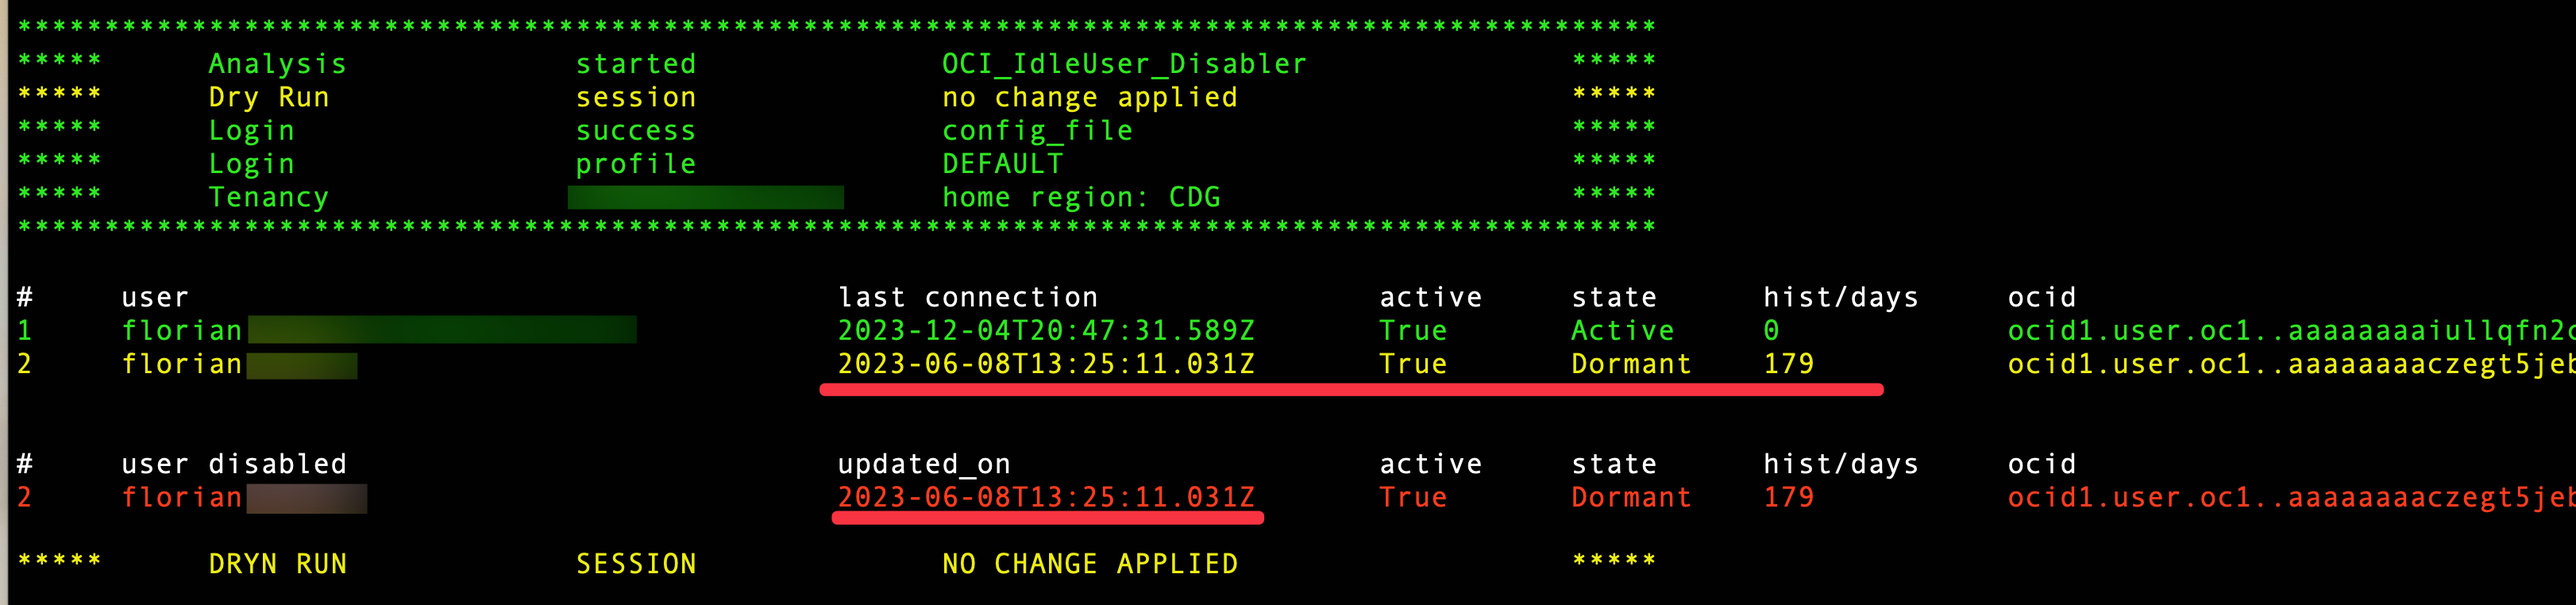
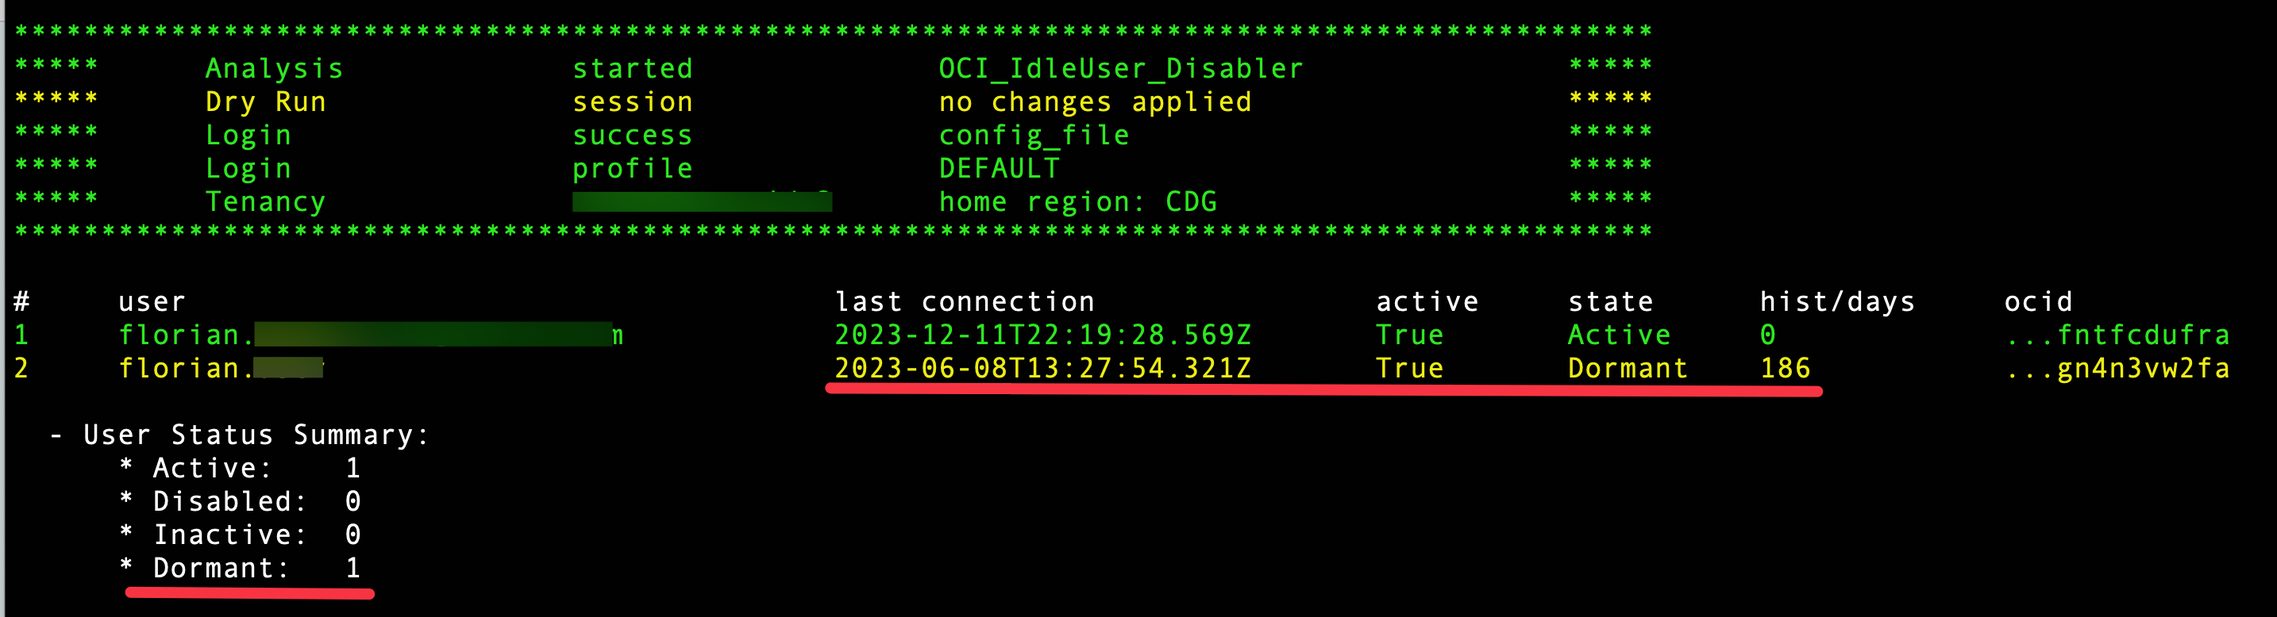
1.2.0
- doesn't display full user ocid by default (-details)
- fix last_successful_login_date
- manage errors when updating users
 -improve code logical
- add User Status Summary

diff --git a/OCI_IdleUser_Disabler.py b/OCI_IdleUser_Disabler.py
@@ -7,7 +7,7 @@
 #       disable users not connected since 60 days (default)
 #
 # Author: Florian Bonneville
-# Version: 1.0 - December 04th, 2023
+# Version: 1.2.0 - December 12th, 2023
 #
 # Disclaimer: 
 # This script is an independent tool developed by 
@@ -19,13 +19,12 @@
 import os
 import oci
 import argparse
-from datetime import datetime
+from datetime import datetime, timezone
 from modules.identity import create_signer
-from modules.utils import green, yellow, red, clear, print_info, print_output
+from modules.utils import green, yellow, red, clear, print_info, print_output, print_error
 
 script_path = os.path.abspath(__file__)
 script_name = (os.path.basename(script_path))[:-3]
-analysis_start = datetime.now()
 
 # - - - - - - - - - - - - - - - - - - - - - - - - - -
 # get command line arguments
@@ -48,6 +47,8 @@ def parse_arguments():
                         help='Number of days of inactivity')
     parser.add_argument('-dryrun',action='store_true', default=False, dest='dryrun', 
                         help='Evaluate users without deactivating')
+    parser.add_argument('-details',action='store_true', default=False, dest='details', 
+                        help='Display full user ocids (76 char)')
     
     return parser.parse_args()
 
@@ -63,6 +64,7 @@ clear()
 
 cmd = parse_arguments()
 days_history = 60 if not cmd.days else cmd.days
+details = cmd.details
 
 # - - - - - - - - - - - - - - - - - - - - - - - - - -
 # print header
@@ -72,19 +74,20 @@ print(green(f"\n{'*'*94:94}"))
 print_info(green, 'Analysis', 'started', script_name)
 
 if cmd.dryrun:
-    print_info(yellow, 'Dry Run', 'session', 'no change applied')
+    print_info(yellow, 'Dry Run', 'session', 'no changes applied')
 
 # - - - - - - - - - - - - - - - - - - - - - - - - - -
 # oci authentication
 # - - - - - - - - - - - - - - - - - - - - - - - - - -
 
-config, signer, oci_tname=create_signer(cmd.config_file_path, 
+config, signer, oci_tname=create_signer(
+                                        cmd.config_file_path, 
                                         cmd.config_profile, 
                                         cmd.is_delegation_token, 
                                         cmd.is_config_file)
 
 identity_client=oci.identity.IdentityClient(
-                config=config)
+                                            config=config)
 
 # - - - - - - - - - - - - - - - - - - - - - - - - - -
 # init oci service clients
@@ -110,26 +113,28 @@ users=identity_domain_client.list_users(
                                         )
 
 for user in users.data.resources:
+
     user_rank=user_rank+1
     try:
-        last_login = user.urn_ietf_params_scim_schemas_oracle_idcs_extension_user_state_user.previous_successful_login_date
+        last_login = user.urn_ietf_params_scim_schemas_oracle_idcs_extension_user_state_user.last_successful_login_date
         last_login = "None" if last_login is None else last_login
 
         users_data[user_rank] = {
-        'ocid': user.ocid,
-        'last_login': last_login,
-        'state': '',
-        'active': 'True' if user.active else 'False',
-        'days': '',
-        'name': user.user_name,
-        'domain': user.domain_ocid,
-        'created': user.meta.created
-        }
+                                'ocid': user.ocid,
+                                'last_login': last_login,
+                                'state': '',
+                                'active': 'True' if user.active else 'False',
+                                'days': '',
+                                'name': user.user_name,
+                                'domain': user.domain_ocid,
+                                'created': user.meta.created
+                                }
+
         # convert the timestamp string to a datetime object
         timestamp = datetime.strptime(last_login, "%Y-%m-%dT%H:%M:%S.%fZ")
 
-        # get the current datetime
-        now = datetime.utcnow()  # Use utcnow() to ensure consistency with the provided timestamp
+        # get the current datetime in UTC & remove timezone information
+        now = datetime.now(timezone.utc).replace(tzinfo=None)
 
         # calculate the difference between the current datetime and the provided timestamp
         time_difference = now - timestamp
@@ -141,7 +146,7 @@ for user in users.data.resources:
         else:
             users_data[user_rank]['state'] = 'Active'
             users_data[user_rank]['days'] = time_difference.days
-
+            
     except:
         last_login = "None"
         users_data[user_rank] = {
@@ -157,60 +162,79 @@ for user in users.data.resources:
 
 print(f"{'#':<5} {'user':<40} {'last connection':<30} {'active':<10} {'state':<10} {'hist/days':<13} {'ocid':<40}")
 
+active_users = 0
+inactive_users = 0
+dormant_users = 0
+disabled_users = 0
+
 for user_rank, user_data in users_data.items():
 
     if user_data['active'] == 'False':
         color = red
-    elif user_data['state'] in ['Dormant', 'Inactive']:
+        disabled_users += 1
+    elif user_data['state'] == 'Dormant':
         color = yellow
+        dormant_users += 1
+    elif user_data['state'] == 'Inactive':
+        color = yellow
+        inactive_users += 1
     else:
         color = green
+        active_users += 1
 
-    print_output(color, user_rank, user_data)
+    print_output(color, user_rank, user_data, details=details)
 
     # - - - - - - - - - - - - - - - - - - - - - - - - - -
-    # disable inactive users
+    # collect inactive users
     # - - - - - - - - - - - - - - - - - - - - - - - - - -
 
-    # https://docs.oracle.com/en/cloud/paas/identity-cloud/rest-api/op-admin-v1-userstatuschanger-id-put.html
     if user_data['active'] == 'True':
         if user_data['state'] in ['Dormant', 'Inactive']:
             users_disabled[user_rank] = {
-                'ocid': user_data['ocid'],
-                'last_login': user_data['last_login'],
-                'name': user_data['name'],
-                'active': user_data['active'],
-                'state': user_data['state'],
-                'days': user_data['days'],
-                'ocid': user_data['ocid']
-                }
+                                        'ocid': user_data['ocid'],
+                                        'last_login': user_data['last_login'],
+                                        'name': user_data['name'],
+                                        'active': user_data['active'],
+                                        'state': user_data['state'],
+                                        'days': user_data['days'],
+                                        'ocid': user_data['ocid']
+                                        }
 
-            if not cmd.dryrun:
+# - - - - - - - - - - - - - - - - - - - - - - - - - -
+# disable inactive & dormant users
+# - - - - - - - - - - - - - - - - - - - - - - - - - -
+
+if not cmd.dryrun:
+    if users_disabled:
+        print(f"\n\n{'#':<5} {'user disabled':<40} {'updated_on':<30} {'active':<10} {'state':<10} {'hist/days':<13} {'ocid':<40}")
+
+        for user_rank, user_data in users_disabled.items():
+            try:
+                # https://docs.oracle.com/en/cloud/paas/identity-cloud/rest-api/op-admin-v1-userstatuschanger-id-put.html
                 put_user_status_changer_response = identity_domain_client.put_user_status_changer(
                     user_status_changer_id=user_data['ocid'],
                     user_status_changer=oci.identity_domains.models.UserStatusChanger(
-                    schemas=["urn:ietf:params:scim:schemas:oracle:idcs:UserStatusChanger"], # comment this line out will display an error showing the schema to use !
+                    schemas=["urn:ietf:params:scim:schemas:oracle:idcs:UserStatusChanger"], # comment this line out will display an error showing the schema to use
                     active=False))
 
-                users_disabled[user_rank] = {
-                    'ocid': user_data['ocid'],
-                    'last_login': put_user_status_changer_response.data.meta.last_modified,
-                    'name': user_data['name'],
-                    'active': 'True' if put_user_status_changer_response.data.active else 'False',
-                    'state': user_data['state'],
-                    'days': user_data['days'],
-                    'ocid': user_data['ocid']
-                    }
+                # update user data
+                user_data['last_login'] = put_user_status_changer_response.data.meta.last_modified
+                user_data['active'] = 'True' if put_user_status_changer_response.data.active else 'False'
 
-if users_disabled:
-    print(f"\n\n{'#':<5} {'user disabled':<40} {'updated_on':<30} {'active':<10} {'state':<10} {'hist/days':<13} {'ocid':<40}")
-    for user_rank, user_data in users_disabled.items():
-        print_output(red, user_rank, user_data)
-    if cmd.dryrun:
-        print()
-        print_info(yellow, 'DRYN RUN', 'SESSION', 'NO CHANGE APPLIED')
-        print()
-    else:
-        print()
-else:
-    print()
+                disabled_users += 1
+                if user_data.get('state') == "Dormant":
+                    dormant_users -= 1
+                else:
+                    inactive_users -= 1
+
+                print_output(red, user_rank, user_data, details=details)
+  
+            except Exception as error:
+                print_error("Error Disabling User:", user_data['name'], error)
+                pass
+
+print('\n  - User Status Summary:')
+print(f'{" ":<5} {"* Active:":<12} {active_users:<5}')
+print(f'{" ":<5} {"* Disabled:":<12} {disabled_users:<5}')
+print(f'{" ":<5} {"* Inactive:":<12} {inactive_users:<5}')
+print(f'{" ":<5} {"* Dormant:":<12} {dormant_users:<5}\n')

diff --git a/modules/utils.py b/modules/utils.py
@@ -150,7 +150,7 @@ def print_error(*args, color=red, level='ERROR'):
 # print formated output 
 # - - - - - - - - - - - - - - - - - - - - - - - - - -
 
-def print_output(color, user_rank, data):
+def print_output(color, user_rank, data, details=True):
 
     rank = str(user_rank)
     user = data.get('name')
@@ -160,6 +160,8 @@ def print_output(color, user_rank, data):
     days = data.get('days')
     ocid = data.get('ocid')
 
+    ocid = ocid if details else "..." + ocid[-10:]
+    
     formatted_string = color(
         f'{rank:<5} '
         f'{user[0:40]:<40} '

diff --git a/README.md b/README.md
@@ -31,6 +31,7 @@ Default authentication uses [Instance Principals](https://docs.public.oneportal.
 | -endpoint     | identity Domain URL  | you must pass the URL of your IAM Domain.                            | 
 | -days         | days integer         | number of days of user inactivity, default : 60                      | 
 | -dryrun       |                      | evaluate users without deactivating                                  | 
+| -details      |                      | display full user ocids (76 char)                                    | 
 
 ## How to use
 ##### Default :[Domain URL](https://docs.oracle.com/en-us/iaas/Content/Identity/domains/to-view-details-of-an-identity-domain.htm)
